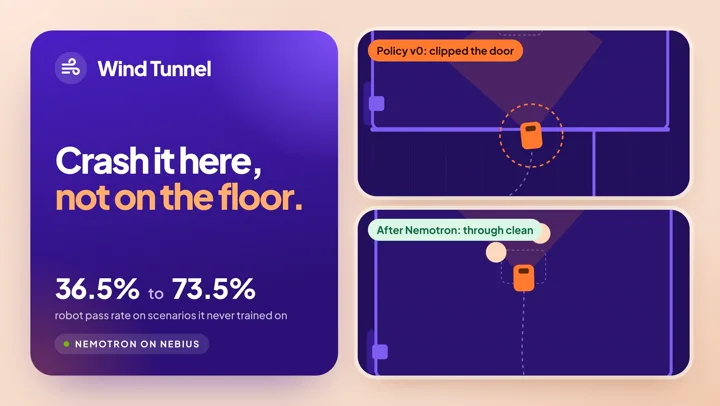
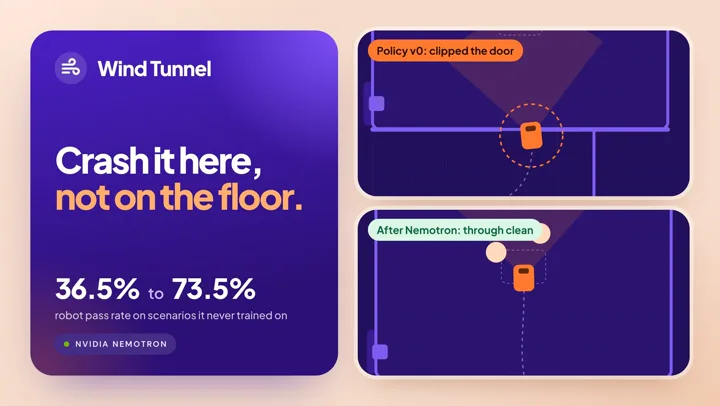
My Moonshots: one Watch the Film per project, no Nebius
Every file now has a single Watch the Film button (Pawzoo links its
Amazon film). The Pawzoo and Wind Tunnel card images read NVIDIA
Nemotron instead of naming Nebius.

Claude-Session: https://claude.ai/code/session_013f1sAe64TqFkDagamZiBgh

Changed region(s): [[0.0611, 0.798, 0.3056, 0.8867]]

diff --git a/moonshots/moonshots.js b/moonshots/moonshots.js
@@ -5,11 +5,11 @@
 (() => {
   'use strict';
   const BASE = 'moonshots/';
-  // Each file links to its film on YouTube; a film not yet up shows as coming soon. Tags name the brand it was built for.
+  // Each file links to its film on YouTube. Tags name the brand it was built for.
   const FILES = [
     { id: 'pawzoo', name: 'Pawzoo', tag: 'For Amazon · PayPal · NVIDIA', kind: 'Pet-care agent',
       line: 'Watches your dog’s day on your home cameras, speaks up first, and pays for refills with PayPal only after you approve the exact total.',
-      films: [['Watch the Amazon Film', 'https://youtu.be/TU6OOYvhF2o'], ['Watch the PayPal Film', 'https://youtu.be/rDtK80juuAk']] },
+      films: [['Watch the Film', 'https://youtu.be/TU6OOYvhF2o']] },
     { id: 'apprentice', name: 'Apprentice', tag: 'For NVIDIA', kind: 'Model trainer',
       line: 'Teaches a small open model one job, proves it learned on examples it never saw, and ships it only if it wins: 74% to 87% on a $1 budget.',
       films: [['Watch the Film', 'https://youtu.be/PvEZV1q-UCQ']] },

diff --git a/index.html b/index.html
@@ -33,10 +33,10 @@
   <link rel="stylesheet" href="fonts.css?v=3">
 
   <link rel="stylesheet" href="style.css?v=10">
-  <link rel="stylesheet" href="moonshots/moonshots.css?v=1">
+  <link rel="stylesheet" href="moonshots/moonshots.css?v=2">
 
   <script src="script.js?v=3" defer></script>
-  <script src="moonshots/moonshots.js?v=1" defer></script>
+  <script src="moonshots/moonshots.js?v=2" defer></script>
 
   <noscript><style>.theory-tabs{display:none}.theory[hidden]{display:block}.theory+.theory{margin-top:40px}.theory-mark{display:none}</style></noscript>
 
